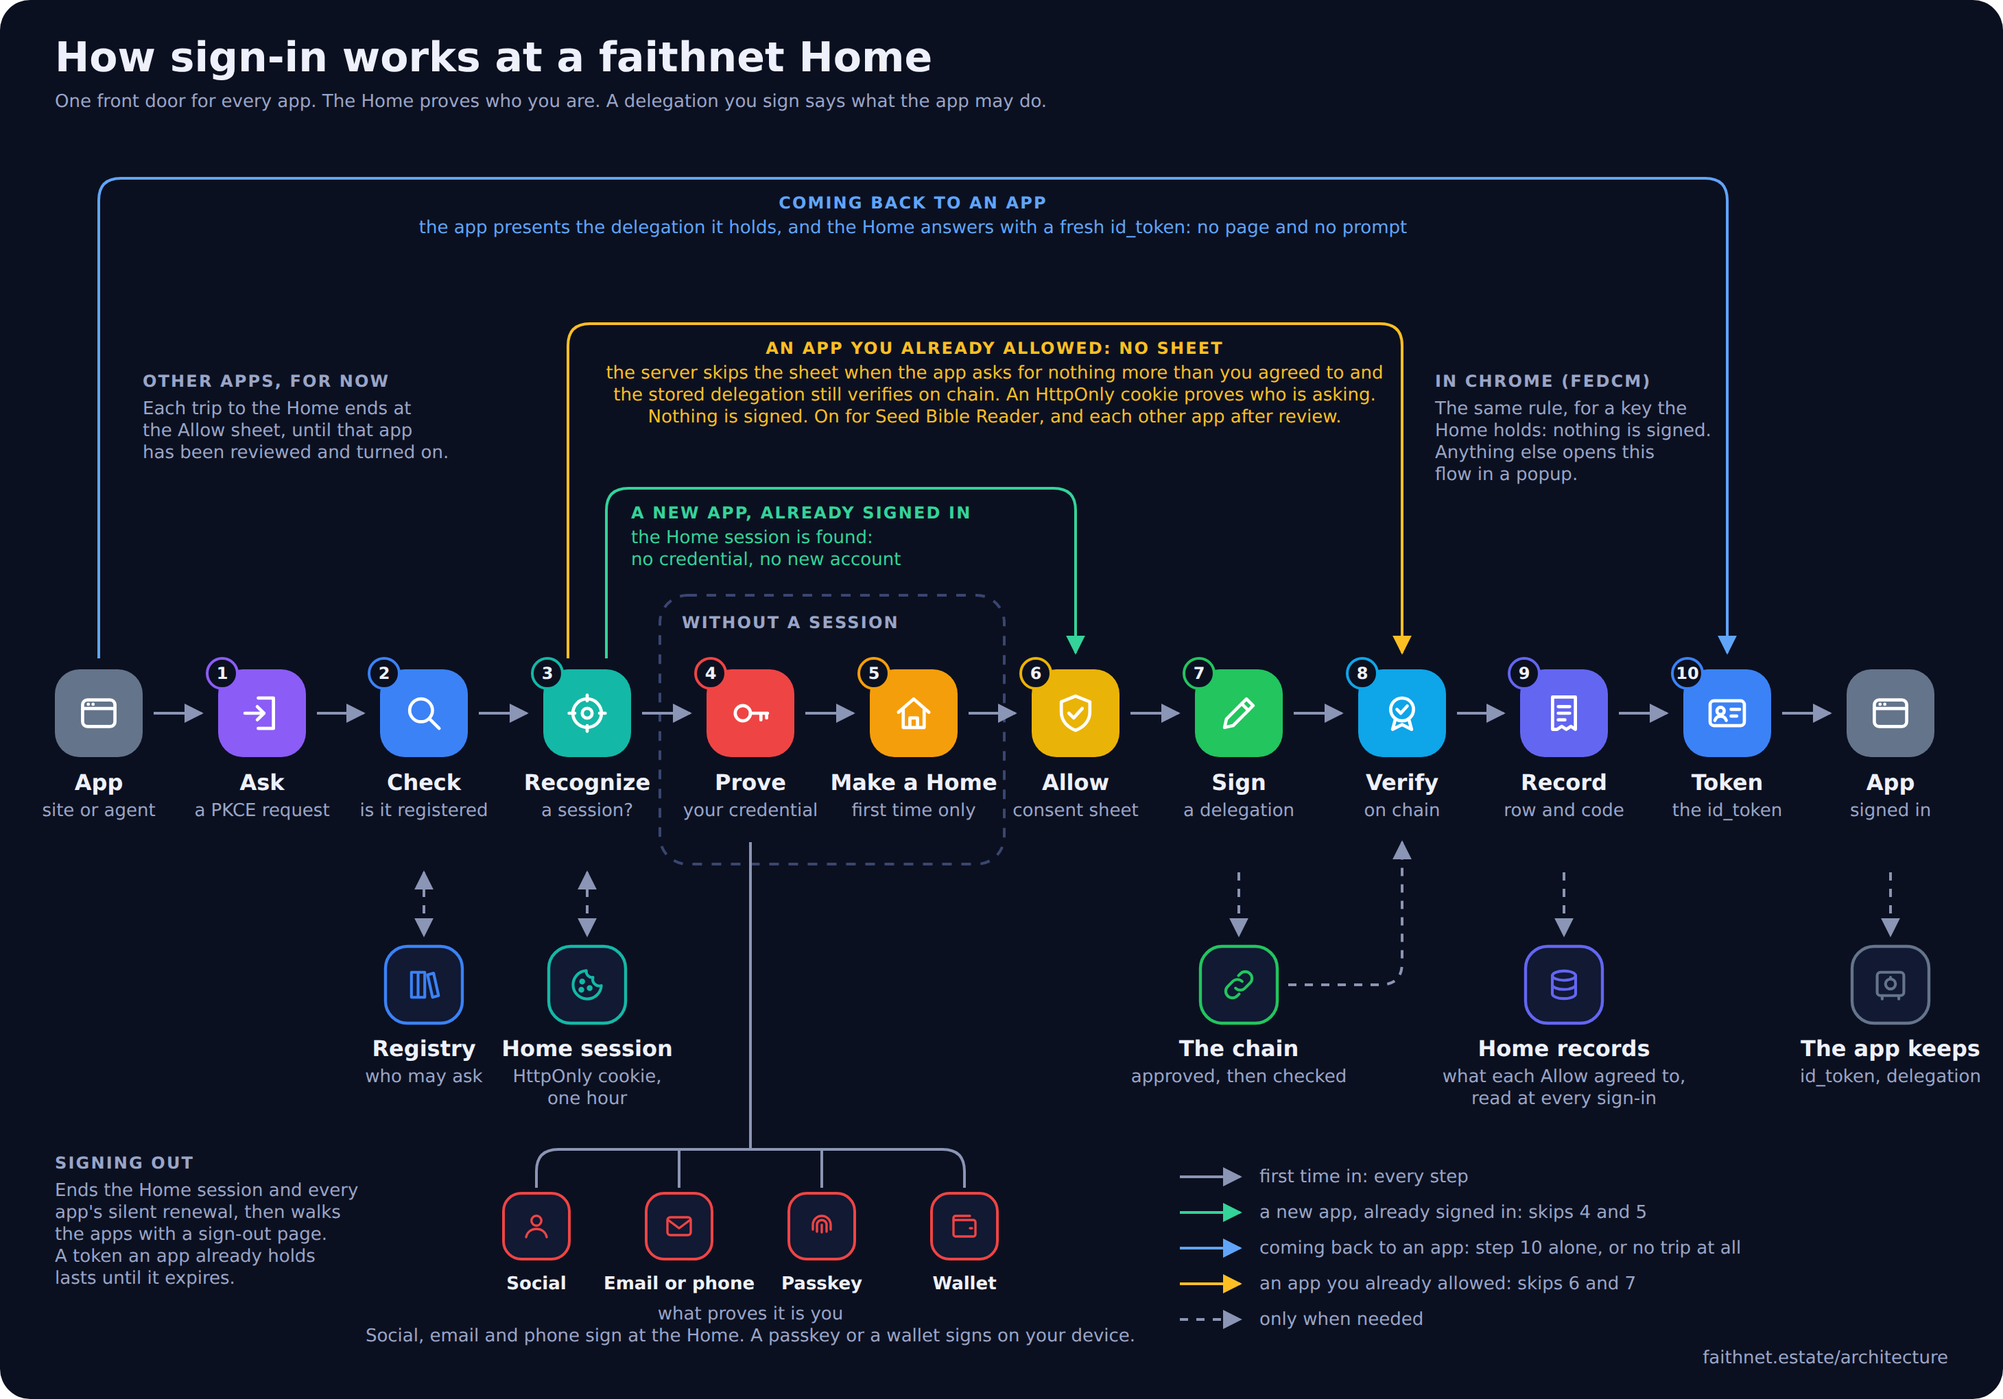
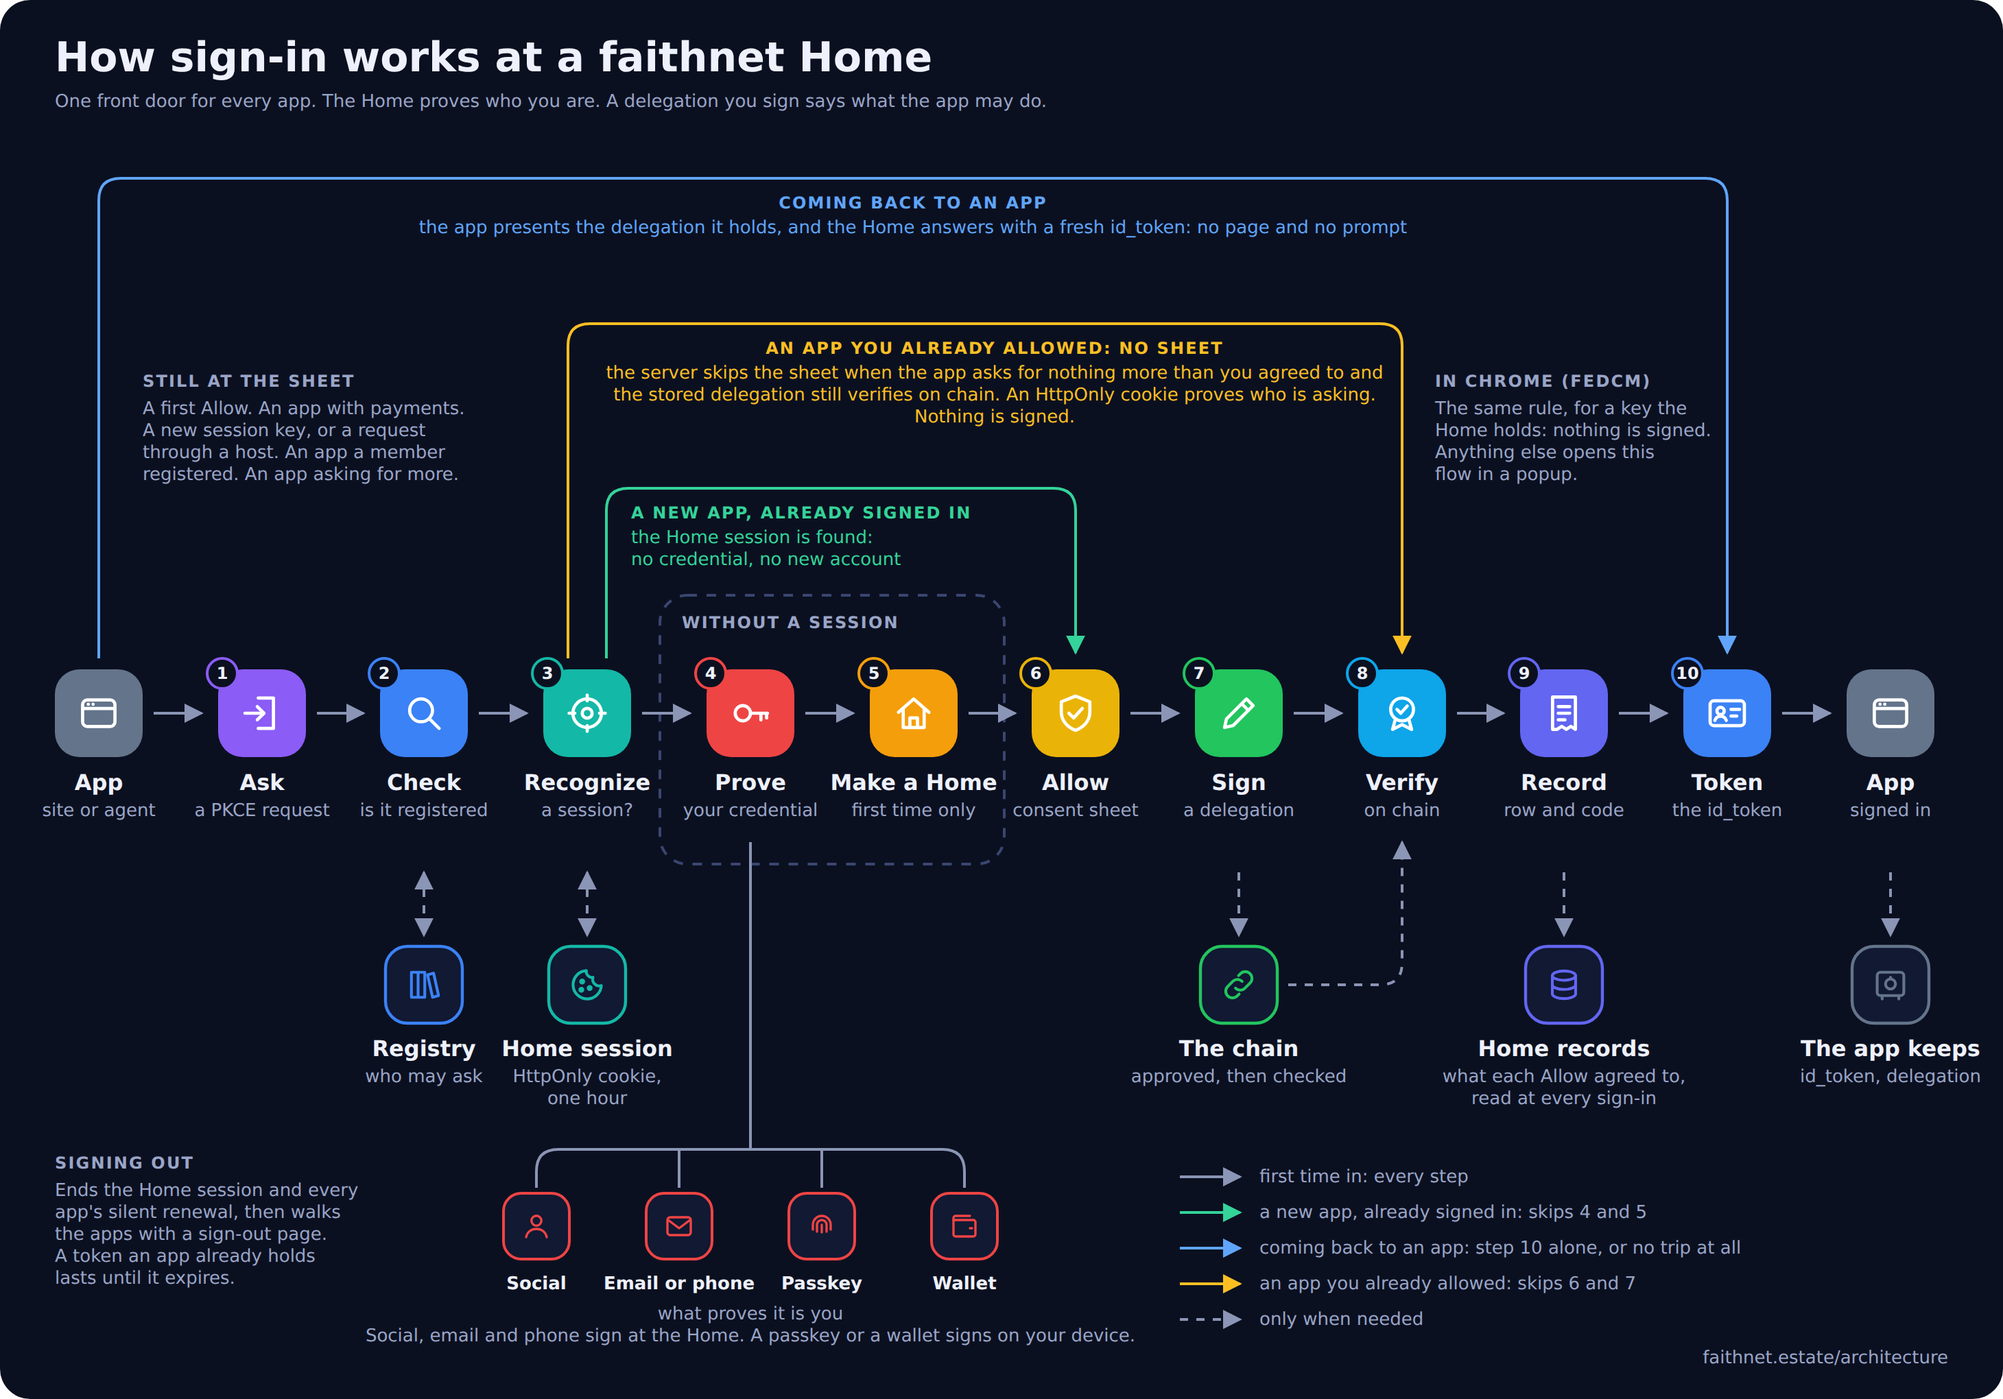
home: every eligible app skips the sheet for a person who already allowed it; the estate deploys from master by CI
Owner's decision. A new app fails a test until someone decides for it. Off by rule: the Home MCP clients, apps with payments, and member-registered apps.
The estate gets a deploy workflow, and `deploy:faithnet` refuses anything but master, after a by-hand deploy from a branch stranded everybody signing out.

Changed region(s): [[0.0623, 0.2471, 0.2182, 0.3397], [0.3428, 0.2779, 0.6545, 0.3088]]

diff --git a/apps/home/src/whitelabel/config.ts b/apps/home/src/whitelabel/config.ts
@@ -132,6 +132,7 @@ const faithImpact: WhiteLabelConfig = {
     // is still checked by the church agent and vault, never inferred from this registration.
     {
       client_id: 'ap-church',
+      remembered_consent: 'on',
       name: 'Church',
       redirect_uris: [
         'https://church.faithnet.io/',
@@ -207,6 +208,7 @@ const faithImpact: WhiteLabelConfig = {
       // change that. `site-login` is the ONLY template it may request, which is the template that asserts
       // who someone is and carries no authority to act for them.
       client_id: 'town-app',
+      remembered_consent: 'on',
       name: 'The town',
       // EXACT MATCH (CN-1). The town's own host first; the workers.dev host is what a preview deploy serves.
       redirect_uris: [
@@ -224,6 +226,7 @@ const faithImpact: WhiteLabelConfig = {
       // ONLY (who someone is, no authority to act), the token kept in the browser tab, and every call it relays
       // decided by the runtime from the session it is given. A signature is still made at the Home, with the passkey.
       client_id: 'estate-app',
+      remembered_consent: 'on',
       name: 'The estate',
       redirect_uris: [
         'https://faithnet.estate/connected',
@@ -240,6 +243,7 @@ const faithImpact: WhiteLabelConfig = {
       // site-login with `session_key=`; a self-vault grant on the person's OWN acceptance family. No
       // email, no org, no messaging. The only template it may request asserts who someone is.
       client_id: 'demo-terms',
+      remembered_consent: 'on',
       name: 'Terms demo',
       // EXACT MATCH (CN-1). The Worker's hostname is read from the deploy output, never guessed; the
       // Vite dev origin is the second entry. Both end in `/` because the client's redirectUri is `${origin}/`.
@@ -264,6 +268,7 @@ const faithImpact: WhiteLabelConfig = {
     },
     {
       client_id: 'skills-app',
+      remembered_consent: 'on',
       name: 'Skills',
       // EXACT MATCH (CN-1) — a redirect_uri that is not listed here is refused, so the app's own
       // custom domain has to be registered before anyone can sign in from it. FIRST on purpose: the
@@ -322,6 +327,7 @@ const faithImpact: WhiteLabelConfig = {
     // origin at /developer instead of editing this file.
     {
       client_id: 'commons-app',
+      remembered_consent: 'on',
       name: 'Commons',
       // The deployed starter, plus `wrangler dev` on 8799. Exact match (CN-1), so the trailing
       // slash is load-bearing — and note the `-production` suffix: `wrangler deploy --env
@@ -346,6 +352,7 @@ const faithImpact: WhiteLabelConfig = {
     // app cannot mint it, which is the point.
     {
       client_id: 'engage-app',
+      remembered_consent: 'on',
       name: 'Engage',
       // A redirect_uri is exact-match (CN-1) and is where this broker HANDS OVER an authorization
       // code, so it must name a domain we CONTROL — never a guessed one. An earlier revision of this
@@ -393,6 +400,7 @@ const faithImpact: WhiteLabelConfig = {
     // shared `delegate` below.
     {
       client_id: 'field-app',
+      remembered_consent: 'on',
       name: 'Field',
       redirect_uris: [
         // faithnet universe (chain 34348) — only present when the deploy sets it (field.faithnet.io);
@@ -460,6 +468,7 @@ const faithImpact: WhiteLabelConfig = {
     // custodied by the Gather org's custodian, who runs the ceremony from Home against a2aBase.
     {
       client_id: 'gather-app',
+      remembered_consent: 'on',
       // Gather's own brand is two words, and the enroll screen shows this verbatim as
       // "Continue to <name>".
       name: 'Gather 27',
@@ -530,6 +539,7 @@ const faithImpact: WhiteLabelConfig = {
     // skills-corpus — the SKILL.md ceremony/admin surface (owner claims a skillset).
     {
       client_id: 'skills-corpus',
+      remembered_consent: 'on',
       name: 'Skills Corpus (admin)',
       redirect_uris: ['https://skills-corpus.richardpedersen3.workers.dev/', 'http://localhost:8996/'],
       allowed_scopes: ['openid', 'agent'],
@@ -543,6 +553,7 @@ const faithImpact: WhiteLabelConfig = {
     // relying apps (which stay login-grade + onboard via the Personal Home).
     {
       client_id: 'demo-web',
+      remembered_consent: 'on',
       name: 'agenticprimitives demo',
       redirect_uris: ['https://agenticprimitives-demo.pages.dev/', 'http://localhost:5173/'],
       allowed_scopes: ['openid', 'agent'],
@@ -556,6 +567,7 @@ const faithImpact: WhiteLabelConfig = {
       // from the Home. The site delegation is unused (web-pro signs userOps + custody typed-data
       // directly via the persona's custodian), but a registered client_id is required by /connect/demo-signin.
       client_id: 'demo-web-pro',
+      remembered_consent: 'on',
       name: 'agenticprimitives treasury demo',
       redirect_uris: ['https://agenticprimitives-demo-pro.pages.dev/', 'http://localhost:5273/'],
       allowed_scopes: ['openid', 'agent'],
@@ -726,6 +738,7 @@ const faithImpact: WhiteLabelConfig = {
     },
     {
       client_id: 'demo-org',
+      remembered_consent: 'on',
       name: 'Impact',
       redirect_uris: ['https://agenticprimitives-demo-org.pages.dev/', 'http://localhost:5473/'],
       allowed_scopes: ['openid', 'agent'],
@@ -742,6 +755,7 @@ const faithImpact: WhiteLabelConfig = {
     // the real underlying organization is NOT used on the live site (demo disclaimer).
     {
       client_id: 'demo-jp',
+      remembered_consent: 'on',
       name: 'JP Adopt',
       redirect_uris: ['https://agenticprimitives-demo-jp.pages.dev/', 'http://localhost:5573/'],
       allowed_scopes: ['openid', 'agent'],
@@ -757,6 +771,7 @@ const faithImpact: WhiteLabelConfig = {
     // arrival the Switchboard pilot describes. demo-gs holds no PII; site-login + org-create only.
     {
       client_id: 'demo-gs',
+      remembered_consent: 'on',
       name: 'Global Switchboard',
       redirect_uris: ['https://agenticprimitives-demo-gs.pages.dev/', 'http://localhost:5673/'],
       allowed_scopes: ['openid', 'agent'],
@@ -845,6 +860,7 @@ const faithImpact: WhiteLabelConfig = {
     // exact-match redirect_uri (CN-1) by `src/lib/oidc-clients.ts`.
     {
       client_id: 'demo-corpus',
+      remembered_consent: 'on',
       name: 'Demo Corpus',
       redirect_uris: [
         // faithnet universe — corpus.faithnet.io, env-gated like the explorer above; first on purpose.
@@ -871,6 +887,7 @@ const faithImpact: WhiteLabelConfig = {
     // exact-match redirect_uri (CN-1) by `src/lib/oidc-clients.ts`.
     {
       client_id: 'uupg-tracker',
+      remembered_consent: 'on',
       name: 'UUPG+ Tracker',
       redirect_uris: [
         'https://uupg.richardpedersen3.workers.dev/',
@@ -939,6 +956,7 @@ const faithImpact: WhiteLabelConfig = {
     // demo-a2a then refuses as aud mismatch. Same demo delegate as the other uupg apps.
     {
       client_id: 'campaign-studio',
+      remembered_consent: 'on',
       name: 'Engagement Campaign Studio',
       redirect_uris: [
         'https://campaign-studio.richardpedersen3.workers.dev/',
@@ -957,6 +975,7 @@ const faithImpact: WhiteLabelConfig = {
     // needs a deliberate wildcard-host extension for this client before subdomain routing goes live.
     {
       client_id: 'org-site',
+      remembered_consent: 'on',
       name: 'Organization Site',
       redirect_uris: ['https://uupg-org.richardpedersen3.workers.dev/', 'https://org.richardpedersen3.workers.dev/', 'http://127.0.0.1:8798/', 'http://localhost:8798/'],
       allowed_scopes: ['openid', 'agent'],
@@ -970,6 +989,7 @@ const faithImpact: WhiteLabelConfig = {
     // for now; replace when the portal mints its own service SA.
     {
       client_id: 'newcity-portal',
+      remembered_consent: 'on',
       name: 'New City AI Portal',
       redirect_uris: [
         'https://newcity-portal.richardpedersen3.workers.dev/',
@@ -985,6 +1005,7 @@ const faithImpact: WhiteLabelConfig = {
     // the code lands at /api/home/callback, exchanged server-side). site-login only; no PII at the broker.
     {
       client_id: 'openbook-tyndale',
+      remembered_consent: 'on',
       name: 'OpenBook × Tyndale',
       redirect_uris: [
         'https://openbook-tyndale.vercel.app/api/home/callback',
@@ -1002,6 +1023,7 @@ const faithImpact: WhiteLabelConfig = {
     // FIRST on purpose: the front-channel sign-out takes the first https URI per client.
     {
       client_id: 'source-publishing',
+      remembered_consent: 'on',
       name: 'Source Publishing',
       redirect_uris: [
         'https://publishing.faithnet.io/',
@@ -1036,6 +1058,7 @@ const faithImpact: WhiteLabelConfig = {
     // site-login only for now; no PII at the broker beyond the name on the token (`profile`). FIRST https URI on purpose.
     {
       client_id: 'openbook-reader',
+      remembered_consent: 'on',
       name: 'OpenBook Reader',
       redirect_uris: [
         'https://reader.faithnet.io/',
@@ -1057,6 +1080,7 @@ const faithImpact: WhiteLabelConfig = {
     // this Home to sign. Login-grade; it reads as the person and signs nothing.
     {
       client_id: 'naming-app',
+      remembered_consent: 'on',
       name: 'Names',
       redirect_uris: [
         'https://names.faithnet.io/',

diff --git a/apps/estate/src/architecture.ts b/apps/estate/src/architecture.ts
@@ -666,7 +666,7 @@ const SIGNIN_ALT =
   'Without a session the person proves a credential and, the first time, a Home is made for them. Then the Allow sheet, a delegation the ' +
   'person signs, its check on chain, a record with a single-use code, and the code exchanged for an id_token. Arcs run above the row. ' +
   'A new app for a person already signed in goes from Recognize to Allow. An app that still holds its delegation goes straight to Token. ' +
-  'A fourth arc goes from Recognize to Verify, for an app the person already allowed: the server skips the sheet when the app asks for nothing more and the stored delegation still verifies on chain, an HttpOnly cookie proves who is asking, and nothing is signed. It is on for Seed Bible Reader, and each other app joins after review. ' +
+  'A fourth arc goes from Recognize to Verify, for an app the person already allowed: the server skips the sheet when the app asks for nothing more and the stored delegation still verifies on chain, an HttpOnly cookie proves who is asking, and nothing is signed. The sheet still shows for a first Allow, an app with payments, a new session key, a request through a host, an app a member registered, and an app asking for more. ' +
   'Notes say that in Chrome the same rule applies for a key the Home holds, and that signing out ends the Home session and every app\'s silent renewal, then walks the apps with a sign-out page of their own.';
 
 const HOME_PAGES = "The Home's pages, in the person's browser. The Home is a Next.js app (<code>apps/home</code>) at <code>www.faithnet.me</code>.";
@@ -930,7 +930,7 @@ const SIGNIN_BODY = `
 <p>"Not you?" is different. It ends the Home session so the person can choose who to be, and leaves their apps alone.</p>
 
 <h2 id="next-design">The Home remembers an Allow</h2>
-<p>This is spec 445, the amber arc in the picture. It went live on 5 November 2026 and is on for Seed Bible Reader. Each other app shows the sheet until it has been reviewed and turned on. Sections above this one that say the sheet is always shown describe those apps.</p>
+<p>This is spec 445, the amber arc in the picture. It went live on 5 November 2026, and it is on for every app in the registry that can use it. Sections above this one that say the sheet is always shown describe how it was before.</p>
 <p>A person who allowed an app is not asked again, as long as the app asks for nothing more and what they signed still holds. Nothing is signed on that visit. The app is handed the wires it already had, each checked on chain first.</p>
 
 <h3>Who is asking: a cookie script cannot read</h3>
@@ -967,7 +967,7 @@ const SIGNIN_BODY = `
 <p>Connected Apps, under Apps you signed into, lists what each app may do, when it last signed in, and every live wire, each with Revoke. <b>Revoke</b> is on chain, and the next sign-in shows the sheet. <b>Forget this app</b> drops what was agreed and keeps the wires listed. <b>Ask me every time</b> keeps the sheet for that app. Activity lists each sign-in that passed: "Signed in to <i>App</i>. No new permission."</p>
 
 <h3>How it goes live</h3>
-<p>One app at a time, each a reviewed change in the registry. Seed Bible Reader is on. The others show the sheet, and the server counts what it would have decided for them. The browser's reuse cache goes when the last app using it is on.</p>
+<p>It is on for every curated app that signs in with <code>site-login</code> and mints no payment. Two apps with payments and the two Home MCP clients are not. A new app has to be decided on: a test fails until it is. The browser's reuse cache stays for apps members register, which always ask.</p>
 
 <h3>What a second review changed</h3>
 <p>Another agent, working on the same problem, reviewed this page. Each point was read against the code.</p>
@@ -992,7 +992,7 @@ const SIGNIN_BODY = `
 </ul>
 
 <h2 id="pauls-points">Paul's points, answered</h2>
-<p>Paul reviewed the sign-in and wrote up what he found and what he would do about it. His words are quoted below, a point at a time, each with a direct answer from the code as it stood at his review. Spec 445, <a href="#next-design">above</a>, has since changed that code, and it is on for Seed Bible Reader. File names are under <code>apps/home</code>.</p>
+<p>Paul reviewed the sign-in and wrote up what he found and what he would do about it. His words are quoted below, a point at a time, each with a direct answer from the code as it stood at his review. Spec 445, <a href="#next-design">above</a>, has since changed that code, and it is live. File names are under <code>apps/home</code>.</p>
 
 <h3>1. Is consent remembered?</h3>
 <blockquote><p>"The Home never checks whether a person has already allowed an app."</p></blockquote>

diff --git a/apps/home/src/whitelabel/remembered-consent.test.ts b/apps/home/src/whitelabel/remembered-consent.test.ts
@@ -1,13 +1,15 @@
-// Spec 445 W3/W4 — this turns something ON: which apps may skip the sheet is a reviewed list, one app at a time. An app
-// added here that mints money authority at sign-in, or a change from 'shadow' to 'on', has to change this test too.
+// Spec 445 W3/W4 — this turns something ON: which apps may skip the sheet is a deliberate list, and a test.
 import { describe, expect, it } from 'vitest';
 import { whitelabel } from './config';
 import { mintsPaymentAtSignIn } from '../lib/consent-terms';
 
 describe('remembered consent, by app', () => {
-  it('is on for the reader and Global.Church\'s two apps, and nobody else yet', () => {
-    const set = whitelabel.relyingApps.filter((a) => a.remembered_consent).map((a) => [a.client_id, a.remembered_consent]);
-    expect(set).toEqual([['seed-bible-reader', 'on'], ['gc-engage', 'on'], ['gc-platform', 'on']]);
+  // Owner's decision, 2026-11-05: on for every eligible curated app. A new app fails here until someone decides for it.
+  it('is on for every curated app that can use it', () => {
+    for (const a of whitelabel.relyingApps) {
+      const eligible = (a.allowed_delegation_templates ?? []).includes('site-login') && !mintsPaymentAtSignIn(a);
+      expect(a.remembered_consent, a.client_id).toBe(eligible ? 'on' : undefined);
+    }
   });
   it('is never set on an app that mints money authority at sign-in', () => {
     for (const a of whitelabel.relyingApps.filter((x) => x.remembered_consent)) expect(mintsPaymentAtSignIn(a), a.client_id).toBe(false);

diff --git a/specs/445-the-home-remembers-an-allow.md b/specs/445-the-home-remembers-an-allow.md
@@ -1,8 +1,8 @@
 # Spec 445 — The Home remembers an Allow, and proves who is asking with a cookie no script can read
 
 **Status:** written 2026-11-05. **W0–W5 live since 2026-11-05 (PR #99)**, with one item held back (`grant-cache.ts`, see W5).
-**Seed Bible Reader is `on` since 2026-11-05: an allowed person skips the sheet there.** The owner turned it on ahead of the shadow week, with no
-operational users yet. **Global.Church Engage and Platform are `on` since 2026-11-05**, turned on by their owner. Other apps show the sheet until each is reviewed. W6 waits on the owner's decision (§3.3). W7 is partly done: see W7. §12 lists where the build departs from the first
+**On for every eligible curated app since 2026-11-05: an allowed person skips the sheet.** The owner's decision, ahead of the shadow week, with no
+operational users yet. Off by rule: `home-mcp`, `home-mcp-act` (no `site-login`), `pokernight`, `bible-explorer` (payments), and member-registered apps. W6 waits on the owner's decision (§3.3). W7 is partly done: see W7. §12 lists where the build departs from the first
 draft of this spec, and why. §13 answers a second agent's review, which changed the design in five places.
 **Asked by:** Paul's review of sign-in (2026-11), answered point by point at
 `https://faithnet.estate/architecture/sign-in#pauls-points`. This spec is the design that page says is missing.
